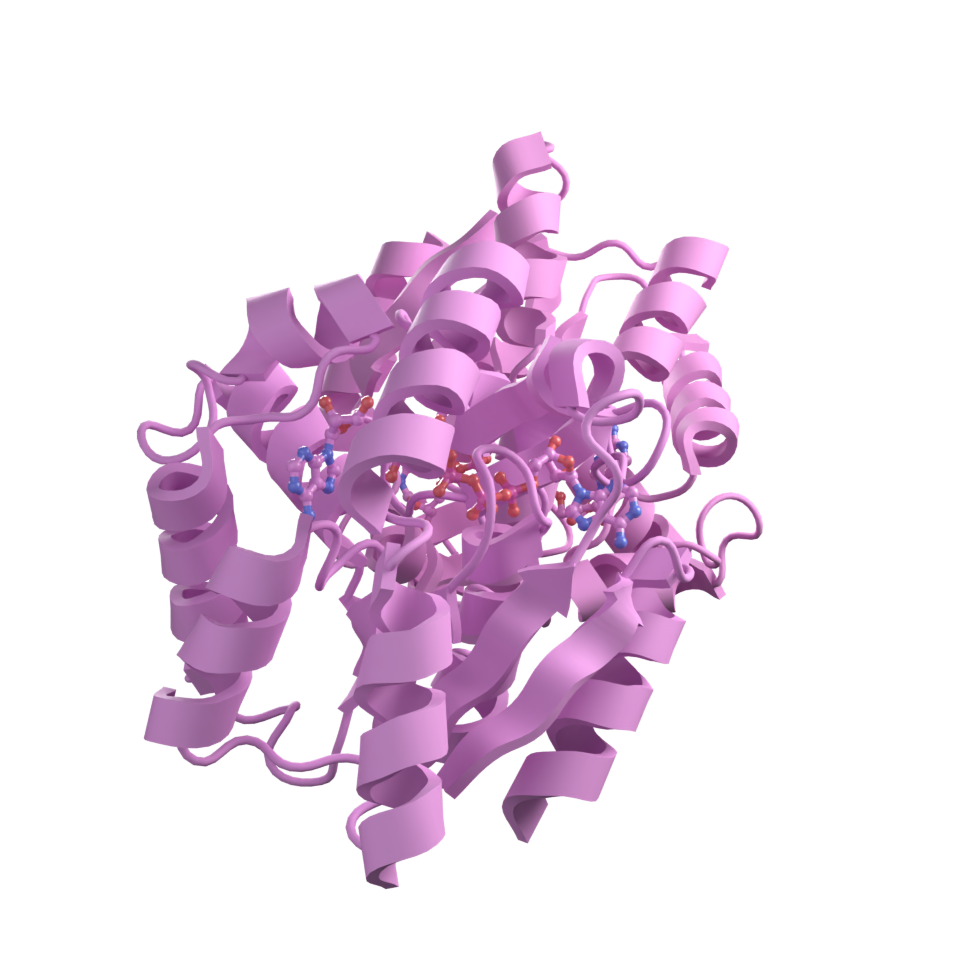
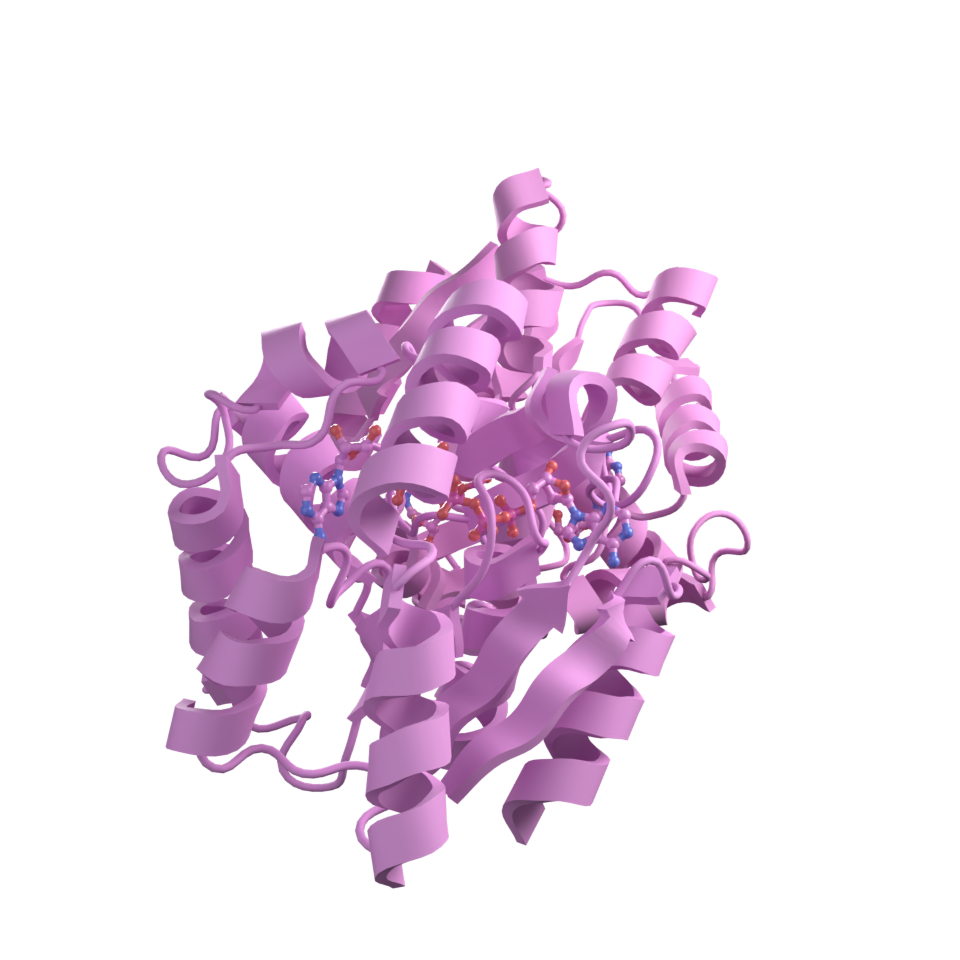
Use a real AlphaFold model in vignette 4
The vignette colouring by pLDDT confidence used the synthetic fixture: a
straight rod of 40 atoms whose B-factors sweep the four bands. It exercised
the code and taught nothing, because the whole point of the bands is that
confidence is *uneven across a structure*, and a rod has no structure to be
uneven across.

It now fetches human p53 (UniProt P04637) from the AlphaFold database — the
canonical picture of what pLDDT is for. A confidently folded DNA-binding core
in dark blue, disordered arms in orange, and the transitions in between:

    very high (>90)    54.0% of atoms
    confident (70-90)   6.9%
    low (50-70)         9.9%
    very low (<50)     29.2%

`load_alphafold` mirrors `load_structure`, falling back to the fixture when
there is no network, so the run still means something offline. The fixture
stays for the tests, which want known values rather than a download.

Framing needed one fix to suit it. The camera aimed at the centroid, which for
a molecule with a long arm on one side is not the middle of what you see: p53
came out with 247px of empty frame on one side and 77 on the other. It now
aims at the middle of the projected silhouette, which also tightens the fit,
since the fit is to the worst offset from wherever it aims. Across the six
figures the molecule went from filling 58-80% of the frame to 75-86%.

Changed region(s): [[0.125, 0.125, 0.8125, 0.9375]]

diff --git a/blender_gala/scene/camera.py b/blender_gala/scene/camera.py
@@ -124,15 +124,15 @@ def _fit_distance(radius: float, camera_data: Any, scene: Any, margin: float) ->
     return float(radius * margin / math.sin(max(half_fov, 1e-3)))
 
 
-def _fit_distance_to_points(
+def _fit_to_points(
     points: np.ndarray,
     centre: np.ndarray,
     basis: tuple[np.ndarray, np.ndarray, np.ndarray],
     camera_data: Any,
     scene: Any,
     margin: float,
-) -> float:
-    """Distance at which every point in ``points`` is inside the frame.
+) -> tuple[np.ndarray, float]:
+    """Where to aim, and from how far, to fit every point in the frame.
 
     Fitting the bounding *sphere* is what a camera helper usually does, and it
     wastes most of the frame: the sphere circumscribes the molecule, so the
@@ -141,20 +141,42 @@ def _fit_distance_to_points(
 
     This projects the atoms onto the camera's own axes instead and solves for
     the distance at which the extreme one lands on the frame edge. A point at
-    depth ``z`` beyond the centre is inside the horizontal field of view while
-    ``|x| <= (d + z) * tan(h)``, so ``d = max(|x| / tan(h) - z)`` over every
-    point and both axes. Perspective is in the ``- z``: atoms nearer the camera
-    need more room than atoms behind the centre.
+    depth ``z`` beyond the aim point is inside the horizontal field of view
+    while ``|x| <= (d + z) * tan(h)``, so ``d = max(|x| / tan(h) - z)`` over
+    every point and both axes. Perspective is in the ``- z``: atoms nearer the
+    camera need more room than atoms behind it.
+
+    The aim point is the middle of the silhouette rather than the centroid.
+    They are the same for a symmetrical molecule and far apart for one with a
+    long tail on one side, where aiming at the centroid leaves a band of empty
+    frame down the other — and, since the fit is to the *worst* offset from the
+    aim point, a wider shot than the molecule needs.
+
+    Returns
+    -------
+    tuple of (numpy.ndarray, float)
+        The point to look at, and the distance to look from.
     """
     right, up, forward = basis
     tan_h, tan_v = _half_fov_tangents(camera_data, scene)
 
     relative = np.asarray(points, dtype=float) - centre
-    x = np.abs(relative @ right) * margin
-    y = np.abs(relative @ up) * margin
+    x = relative @ right
+    y = relative @ up
     depth = relative @ forward
 
-    return float((np.maximum(x / tan_h, y / tan_v) - depth).max())
+    # Recentre across the view axes only: shifting the aim point sideways does
+    # not change how deep anything is, so `depth` still applies.
+    x_middle = 0.5 * (float(x.max()) + float(x.min()))
+    y_middle = 0.5 * (float(y.max()) + float(y.min()))
+    aim = centre + right * x_middle + up * y_middle
+
+    half_width = np.abs(x - x_middle) * margin
+    half_height = np.abs(y - y_middle) * margin
+    distance = float(
+        (np.maximum(half_width / tan_h, half_height / tan_v) - depth).max()
+    )
+    return aim, distance
 
 
 def frame_target(
@@ -239,7 +261,7 @@ def frame_target(
     if points is None or len(points) == 0:
         distance = _fit_distance(radius, camera.data, scene, margin)
     else:
-        distance = _fit_distance_to_points(
+        centre, distance = _fit_to_points(
             points, centre, basis, camera.data, scene, margin
         )
         # Framing the silhouette can put the camera inside a molecule seen

diff --git a/vignettes/04_alphafold_confidence.py b/vignettes/04_alphafold_confidence.py
@@ -14,20 +14,33 @@ import sys
 sys.path.insert(0, os.path.dirname(os.path.abspath(__file__)))
 
 import numpy as np
-from _common import DATA_DIR, QUALITY, heading, render, setup
+from _common import QUALITY, heading, load_alphafold, render, setup
 
 mn, gala = setup()
 
 # ---------------------------------------------------------------------------
 heading("1. Load a predicted model")
 # ---------------------------------------------------------------------------
-# AlphaFold writes pLDDT into the B-factor column. The fixture sweeps all four
-# confidence bands so every colour appears.
-mol = mn.Molecule.load(os.path.join(DATA_DIR, "plddt.pdb"))
+# Human p53 as AlphaFold predicts it: a confidently folded DNA-binding core
+# between two long disordered arms. That shape is what makes the confidence
+# bands worth looking at — a prediction is rarely uniformly good, and the
+# colouring is how you see which parts to believe.
+#
+# AlphaFold writes pLDDT into the B-factor column, which is why colouring by
+# B-factor and colouring by confidence are the same operation here.
+mol = load_alphafold("P04637")
 mol.add_style("cartoon")
 
 plddt = np.asarray(mol.array.b_factor)
 print(f"  {len(plddt)} atoms, pLDDT {plddt.min():.0f} to {plddt.max():.0f}")
+for label, low, high in [
+    ("very high (>90) ", 90, 100),
+    ("confident (70-90)", 70, 90),
+    ("low (50-70)      ", 50, 70),
+    ("very low (<50)   ", 0, 50),
+]:
+    share = ((plddt > low) & (plddt <= high)).mean()
+    print(f"      {label} {share:5.1%} of atoms")
 
 
 # ---------------------------------------------------------------------------

diff --git a/vignettes/_common.py b/vignettes/_common.py
@@ -129,6 +129,48 @@ def load_structure(pdb_code: str, fallback: str = "site.pdb"):
     return molecule
 
 
+def load_alphafold(accession: str, fallback: str = "plddt.pdb"):
+    """Fetch a model from the AlphaFold database, falling back to a fixture.
+
+    The AlphaFold database is keyed by UniProt accession rather than by PDB ID,
+    and it is what puts pLDDT in the B-factor column — the whole point of the
+    colouring this demonstrates. The synthetic fixture has the same B-factors
+    but none of the shape, so it stands in only when there is no network.
+
+    Parameters
+    ----------
+    accession : str
+        UniProt accession, e.g. ``"P04637"``.
+    fallback : str, optional
+        File in ``tests/data`` to use when the fetch fails.
+
+    Returns
+    -------
+    molecularnodes.Molecule
+    """
+    from blender_gala.core import mn as mn_bridge
+
+    module = mn_bridge.require_mn()
+
+    try:
+        molecule = module.Molecule.fetch(accession, database="alphafold")
+    except Exception as exc:
+        path = os.path.join(DATA_DIR, fallback)
+        print(
+            f"  could not fetch AlphaFold {accession} "
+            f"({exc.__class__.__name__}); using {fallback}"
+        )
+        molecule = module.Molecule.load(path)
+    else:
+        from blender_gala.core.entity import AtomStructure
+
+        print(
+            f"  loaded AlphaFold {accession}: "
+            f"{AtomStructure.from_any(molecule).n_atoms} atoms"
+        )
+    return molecule
+
+
 def render(gala, name: str) -> str:
     """Render the current scene into ``docs/images``.
 

diff --git a/tests/test_scene.py b/tests/test_scene.py
@@ -475,6 +475,37 @@ def test_framing_is_tight_to_the_projected_atoms(site_molecule):
     assert reach > 0.5 / margin - 0.06, f"framing is loose: reach {reach:.3f}"
 
 
+@requires_mn
+def test_framing_centres_the_silhouette(site_molecule):
+    """Aiming at the centroid leaves a band of empty frame down one side.
+
+    site.pdb has a chloride 18 A out while 90% of the atoms are inside 11 A,
+    so its centroid and the middle of its silhouette are not the same place.
+    """
+    import bpy
+    from bpy_extras.object_utils import world_to_camera_view
+    from mathutils import Vector
+
+    from blender_gala.core.entity import AtomStructure
+    from blender_gala.scene import camera, render
+
+    render.set_resolution(800, 800)
+    structure = AtomStructure.from_any(site_molecule)
+
+    obj = camera.frame_target(structure, viewpoint="iso")
+
+    projected = np.array(
+        [
+            world_to_camera_view(bpy.context.scene, obj, Vector(point.tolist()))[:2]
+            for point in structure.world_positions()
+        ]
+    )
+    middle = 0.5 * (projected.max(axis=0) + projected.min(axis=0))
+    assert np.allclose(middle, 0.5, atol=0.01), (
+        f"silhouette sits at {middle}, not the middle of the frame"
+    )
+
+
 # ---------------------------------------------------------------------------
 # Compositing
 # ---------------------------------------------------------------------------

diff --git a/docs/guide/scenes.md b/docs/guide/scenes.md
@@ -205,9 +205,15 @@ The fit is to the atoms as they project from that viewpoint, not to the sphere
 around them, so `margin=1.0` puts the outermost atom on the frame edge and
 `1.15` leaves 15% air. Fitting the bounding sphere — the usual shortcut — backs
 the camera off far enough for the *most distant single atom* in any direction,
-which on a typical protein wastes about half the frame. One atom well away from
-the rest still costs you the whole frame, because it has to be in it: frame a
-selection instead if you would rather it were not.
+which on a typical protein wastes about half the frame.
+
+The camera also aims at the middle of that silhouette rather than at the
+centroid. The two coincide for a symmetrical molecule and separate for one with
+a long tail on one side — an AlphaFold model with disordered arms, say — where
+aiming at the centroid leaves a band of empty frame down the other side. One
+atom well away from the rest still costs you the whole frame either way,
+because it has to be in it: frame a selection instead if you would rather it
+were not.
 
 A turntable:
 

diff --git a/docs/vignettes.md b/docs/vignettes.md
@@ -46,9 +46,11 @@ value labels, plus what happens when a selection is ambiguous.
 
 ![04_alphafold_confidence](images/04_alphafold_confidence.png)
 
-`04_alphafold_confidence.py` — colour a predicted model by pLDDT with the
-official confidence bands, print the legend, and render only the parts worth
-trusting.
+`04_alphafold_confidence.py` — fetch human p53 from the AlphaFold database,
+colour it by pLDDT with the official confidence bands, print the legend, and
+render only the parts worth trusting. A real prediction rather than a fixture,
+because the point of the bands is that confidence is uneven: p53's DNA-binding
+core comes out dark blue and its disordered arms orange.
 
 ## 5. Compositing passes
 

diff --git a/docs/contributing.md b/docs/contributing.md
@@ -65,6 +65,8 @@ make test-fast   # only the tests that need no Blender objects
   interaction: a 2.80 Å hydrogen bond at 180°, a salt bridge, a 3.80 Å parallel
   stack, a cation-π, a linear halogen bond, a metal centre.
 - `plddt.pdb` — B-factors sweeping the four AlphaFold confidence bands.
+  Vignette 4 fetches a real AlphaFold model and falls back to this when
+  there is no network, so the bands are exercised either way.
 - `geometry.pdb` — four atoms at exactly 1.500 Å, 90° and −90°.
 
 Because the geometry was placed rather than found, tests assert real numbers
